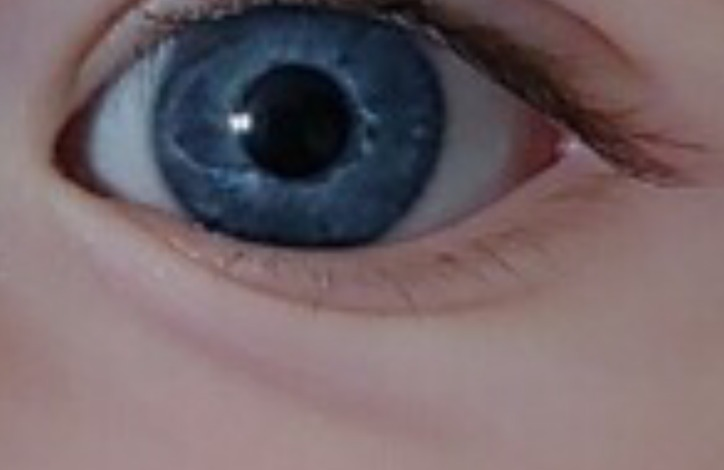
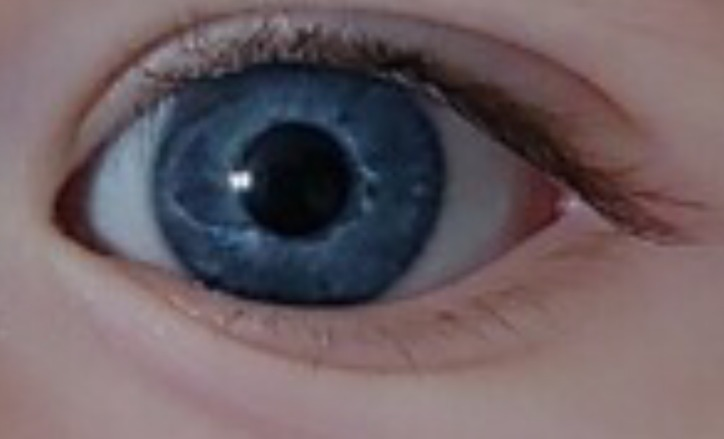
Eye centering - recrop on actual pupil position (x=41.6% y=47.1%), offset image draw to align iris with eye shape center

diff --git a/index.html b/index.html
@@ -266,14 +266,18 @@ function drawEye(){
       var drawW=eyeW*2.2;
       var drawH=drawW/imgAspect;
       // If height doesn't cover, scale up by height instead
-      if(drawH<eyeH*2.4){
-        drawH=eyeH*2.4;
+      if(drawH<eyeH*2.6){
+        drawH=eyeH*2.6;
         drawW=drawH*imgAspect;
       }
+      // Pupil is ~8.4% left and ~3.1% above center in the photo
+      // Shift image so pupil aligns with canvas center
+      var pupilOffX=drawW*0.084;
+      var pupilOffY=drawH*0.031;
       // Slight parallax shift — image moves opposite to gaze for depth
       var parallaxX=pxOff*-0.3;
       var parallaxY=pyOff*-0.3;
-      ex.drawImage(eyeImg,cx-drawW/2+parallaxX,cy-drawH/2+parallaxY,drawW,drawH);
+      ex.drawImage(eyeImg,cx-drawW/2+pupilOffX+parallaxX,cy-drawH/2+pupilOffY+parallaxY,drawW,drawH);
     }
     
     // Supernatural overlay — very subtle golden pulse inside the eye
